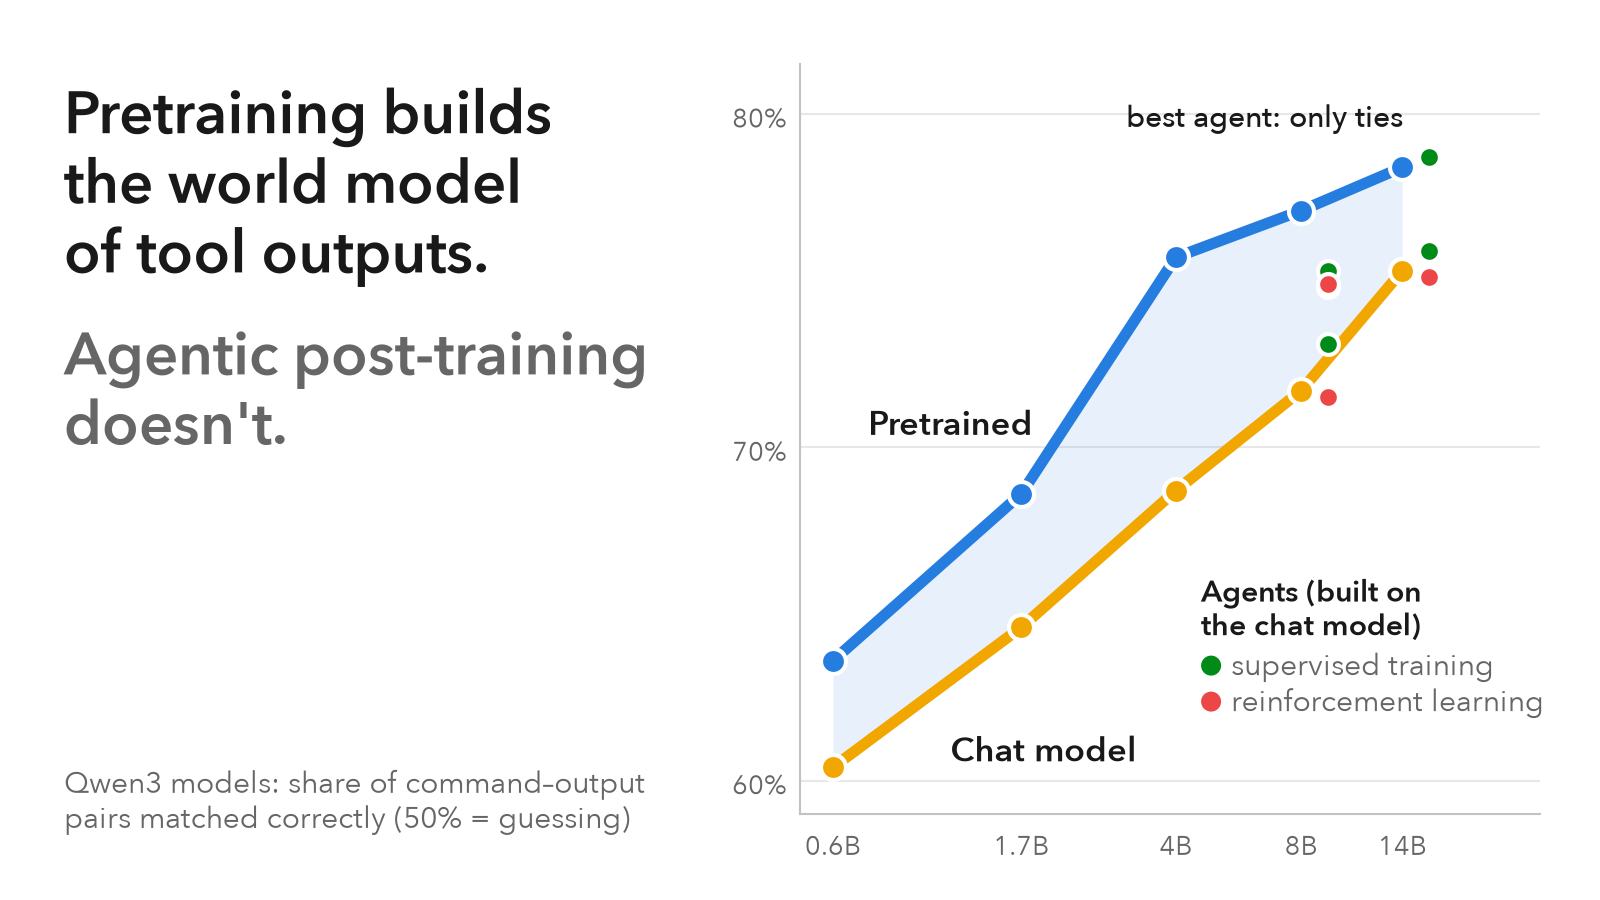
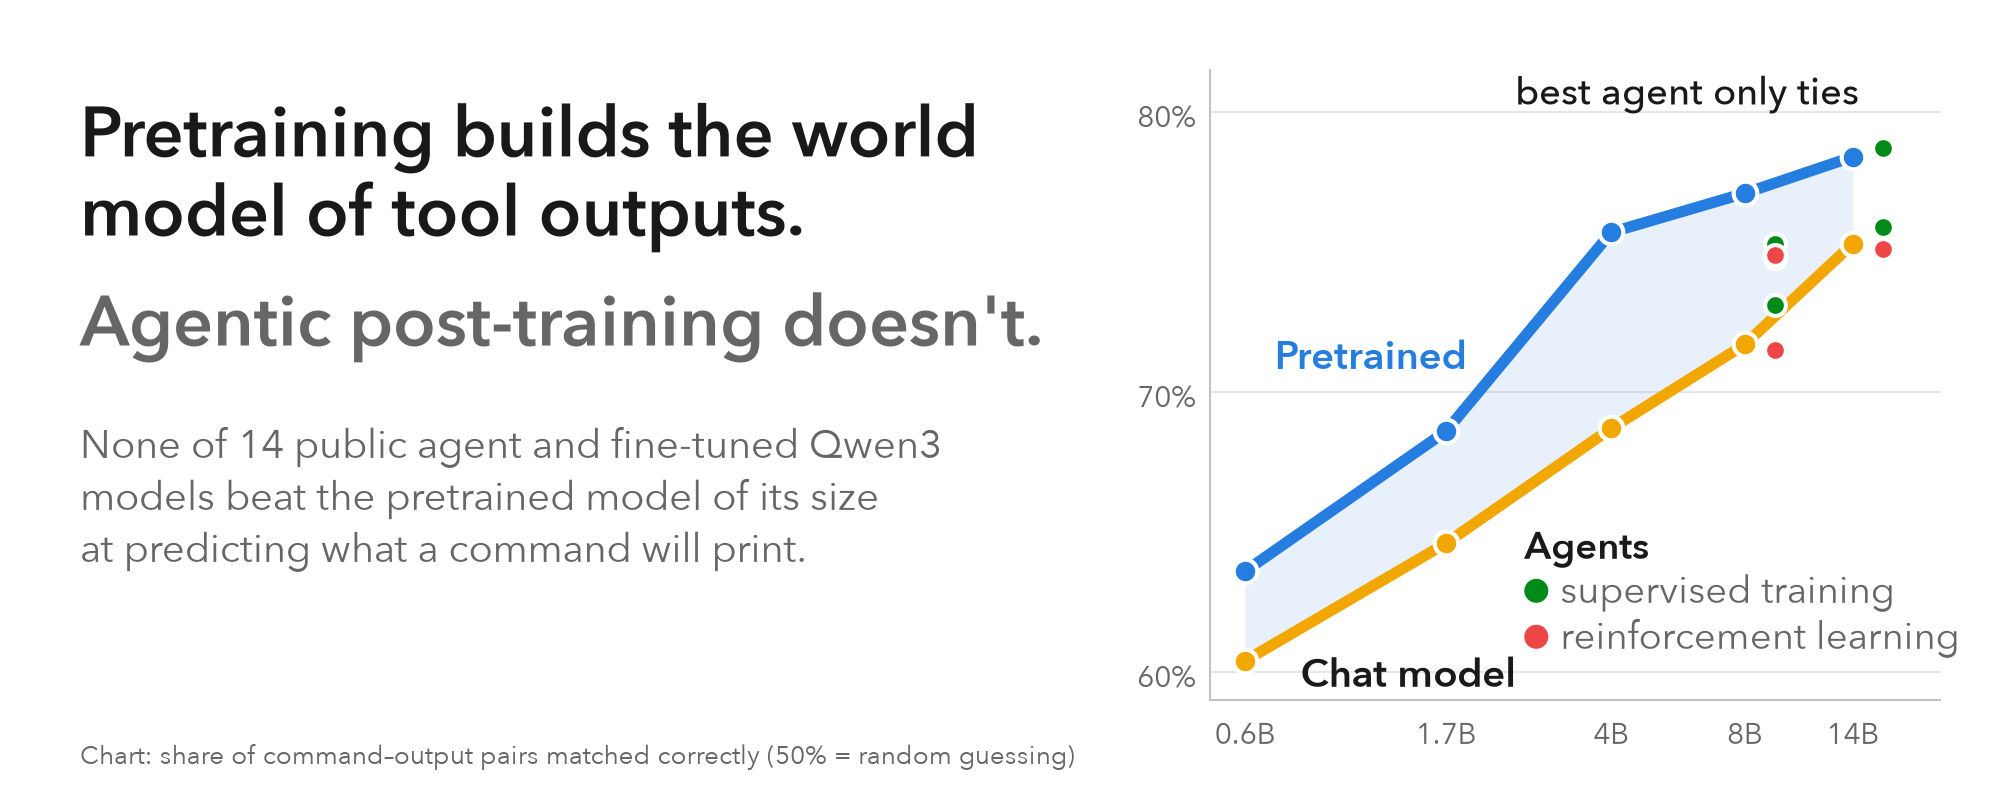
Make the X article cover 5:2
X recommends a 5:2 header image for articles. Replace the 16:9 cover
with a 2000x800 layout designed for the wide format; keep the 2:1
link-card version.

diff --git a/writeups/article/figures/make_figures.py b/writeups/article/figures/make_figures.py
@@ -246,6 +246,53 @@ def cover(name, W, H):
     c.save(name)
 
 
+def cover52(name, W=2000, H=800):
+    """X article cover, 5:2 (X's recommended header ratio). Minimal text so it reads at thumbnail size."""
+    c = Canvas(H, W)
+    acc = D["matching_accuracy"]
+    x0 = 80
+    yb = c.lines(x0, 92, "Pretraining builds the world\nmodel of tool outputs.", 70, lh=1.13, weight="demibold")
+    yb = c.lines(x0, yb + 26, "Agentic post-training doesn't.", 70, weight="demibold", color=INK2)
+    c.lines(x0, yb + 56, "None of 14 public agent and fine-tuned Qwen3\nmodels beat the pretrained model of its size\nat predicting what a command will print.",
+            40, lh=1.3, color=INK2)
+    c.t(x0, H - 62, "Chart: share of command\u2013output pairs matched correctly (50% = random guessing)",
+        px=26, color=INK2, small=True)
+    L, T, Wd, Ht = 1210, 70, 730, H - 170
+    ax = c.axes(L, T, Wd, Ht)
+    style_ax(ax)
+    xs = [SX[k] for k in SIZES[:5]]
+    pre = [acc["pretrained"][k] for k in SIZES[:5]]
+    cha = [acc["chat"][k] for k in SIZES[:5]]
+    ax.fill_between(xs, cha, pre, color=ROLE["pretrained"], alpha=0.10, lw=0)
+    for ys, role in ((pre, "pretrained"), (cha, "chat")):
+        ax.plot(xs, ys, color=ROLE[role], lw=8, solid_capstyle="round", zorder=3)
+        ax.scatter(xs, ys, s=17 ** 2, color=ROLE[role], zorder=4, ec=SURF, lw=3)
+    for g in D["gains"]["groups"]:
+        if not g["role"].startswith("agent"):
+            continue
+        for m in g["models"]:
+            sz = "8B" if "8B" in m["name"] else ("14B" if "14B" in m["name"] else None)
+            if sz:
+                v = round(acc["chat"][sz] + m["vs_chat"], 1)
+                ax.scatter([SX[sz] * 1.17], [v], s=15 ** 2, color=ROLE[g["role"]], zorder=5, ec=SURF, lw=3)
+    ax.set_xscale("log"); ax.set_xlim(0.5, 22); ax.set_ylim(59, 81.5)
+    ax.set_xticks(xs); ax.set_xticklabels(SIZES[:5])
+    ax.set_yticks([60, 70, 80]); ax.set_yticklabels(["60%", "70%", "80%"])
+    ax.tick_params(labelsize=30 * PT); ax.minorticks_off()
+    px, py = c.d2p(ax, 1.15, 70.3)
+    c.t(px, py, "Pretrained", px=40, weight="demibold", ha="center", va="bottom", color=ROLE["pretrained"])
+    px, py = c.d2p(ax, 0.8, 60.9)
+    c.t(px, py, "Chat model", px=40, weight="demibold", ha="left", va="top", color=INK)
+    px, py = c.d2p(ax, 2.55, 65.4)
+    c.t(px, py, "Agents", px=38, weight="demibold", va="top")
+    for i, role in enumerate(("agent_sup", "agent_rl")):
+        yy = py + 50 + i * 46
+        c.ov.add_patch(Circle((px + 12, yy + 20), 12, fc=ROLE[role], ec="none", zorder=6))
+        c.t(px + 36, yy + 20, ["supervised training", "reinforcement learning"][i], px=38, va="center", color=INK2)
+    x1, y1 = c.d2p(ax, 14 * 1.17, 78.7)
+    c.t(x1 - 24, y1 - 30, "best agent only ties", px=38, color=INK, weight="medium", ha="right", va="bottom")
+    c.save(name)
+
 # ==========================================================================
 def training_stages():
     c = Canvas(1120)
@@ -914,7 +961,7 @@ def roles():
 
 
 FIGS = {
-    "cover": lambda: (cover("cover.png", 1600, 900), cover("cover_2x1.png", 1200, 600)),
+    "cover": lambda: (cover52("cover.png", 2000, 800), cover("cover_2x1.png", 1200, 600)),
     "training-stages": training_stages, "what-we-measure": what_we_measure,
     "surprise-breakdown": surprise_breakdown, "recalibration": recalibration, "pair": pair,
     "scale": scale_fig, "gains": gains, "margin": margin, "dissociation": dissociation,
